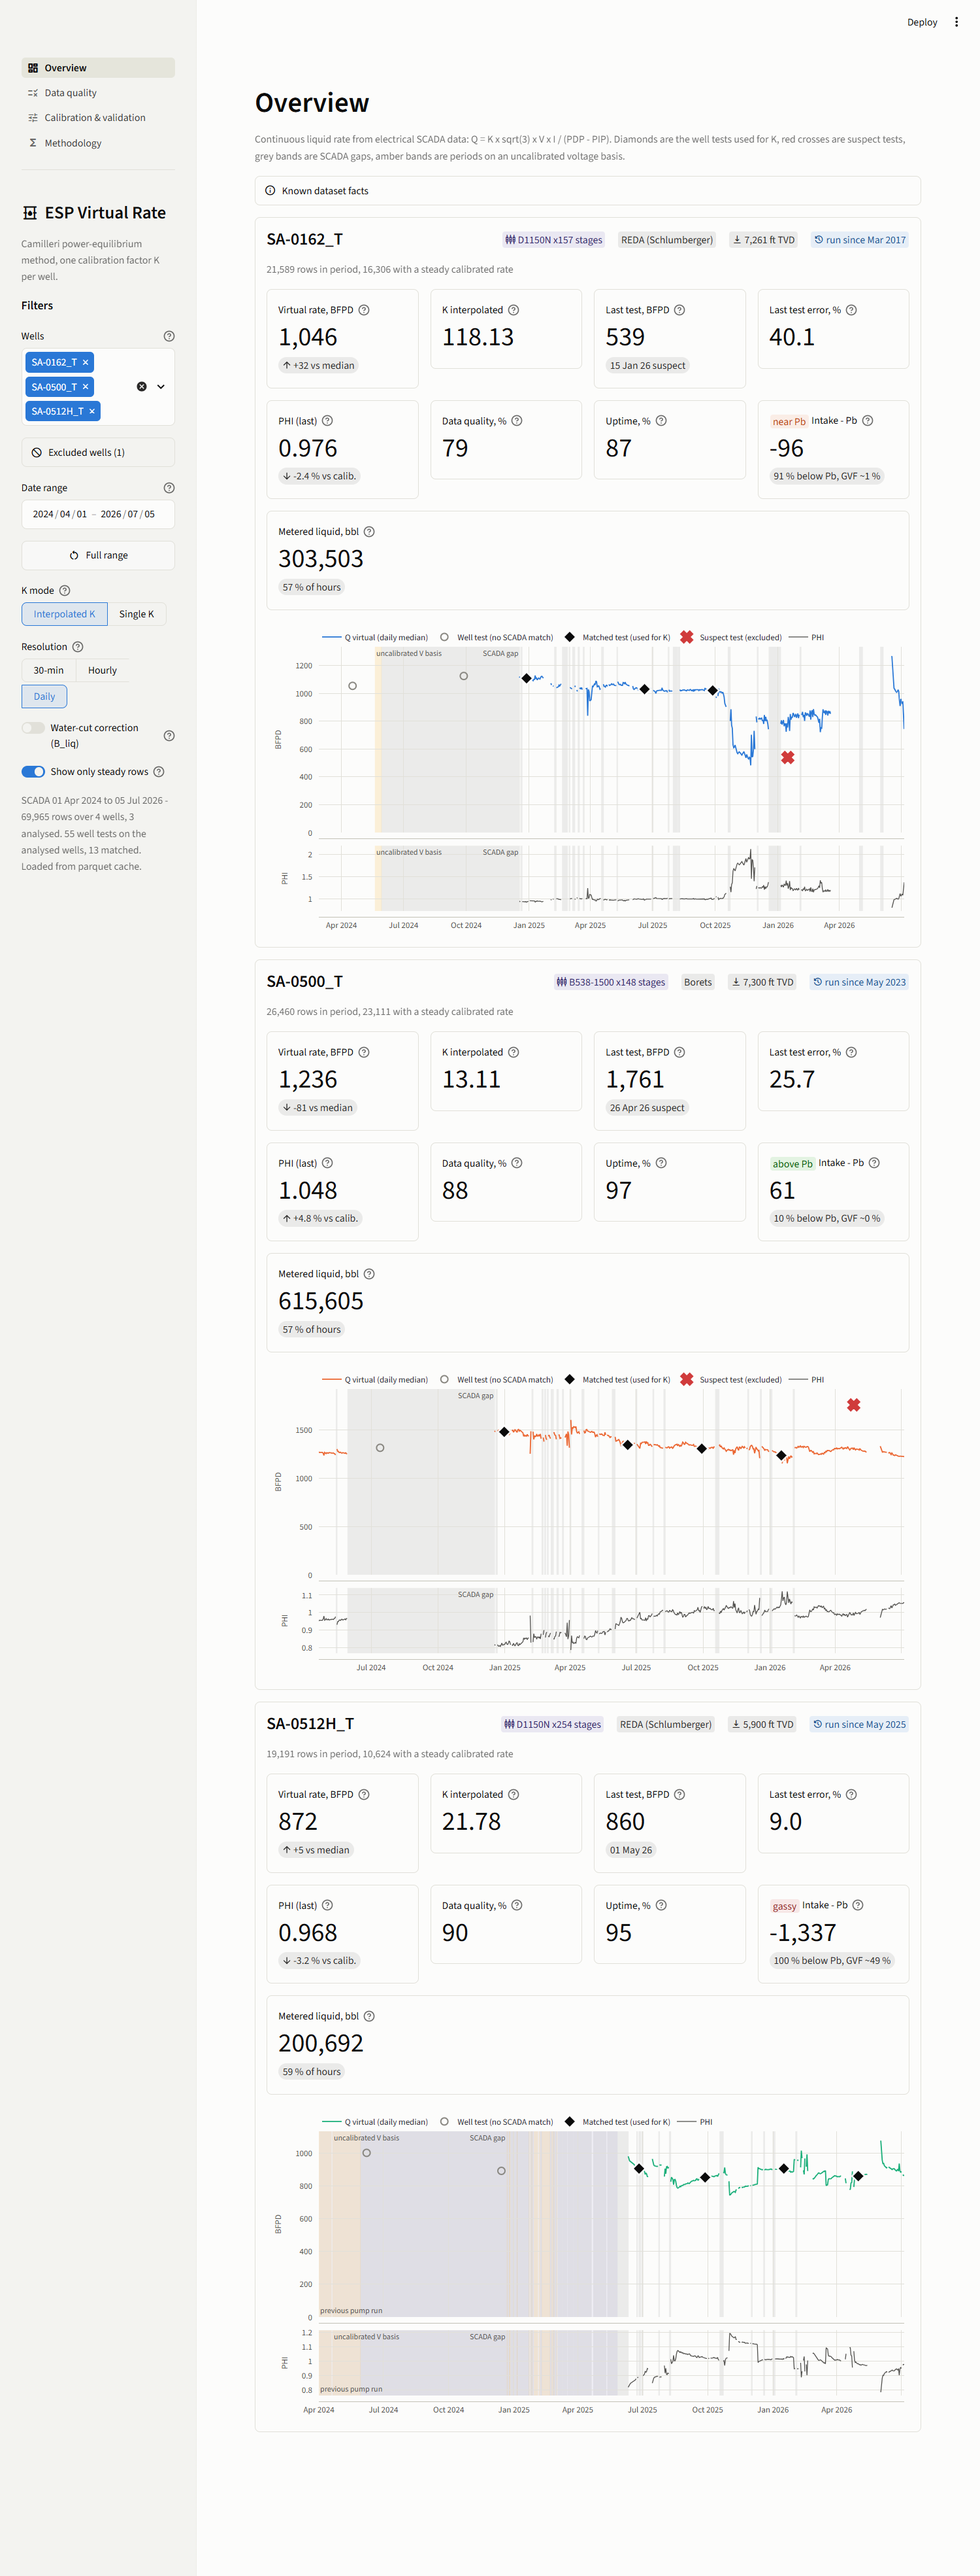
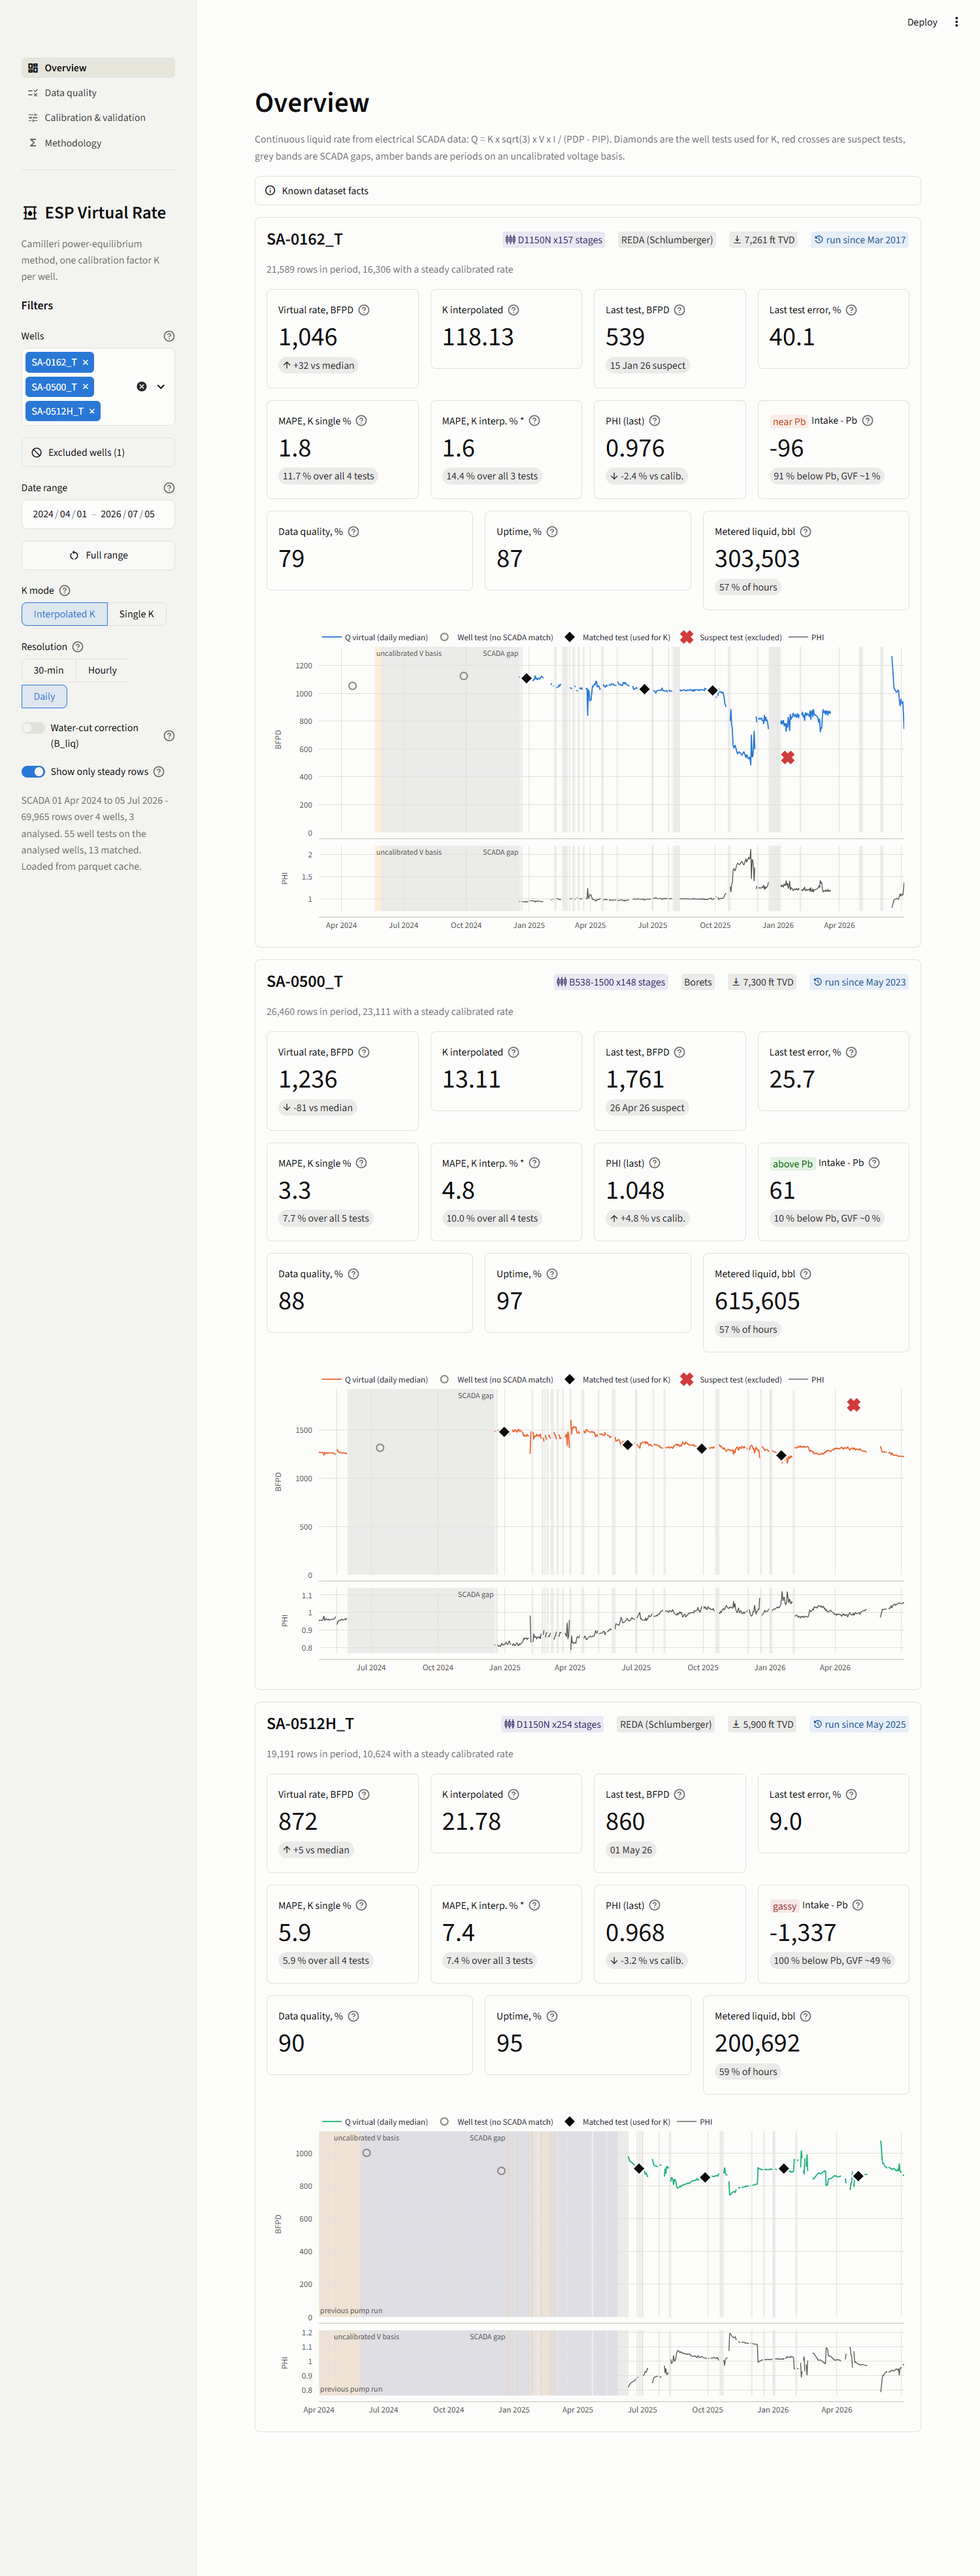
Overview: per-well MAPE tiles for both K modes
Each K mode gets the out-of-sample method that actually scores it: a single K is
leave-one-out (M1), an interpolated K is walk-forward (M2), because interpolating
across a test needs the test that follows it, which does not exist in real time.
The tile value excludes suspect tests, the line underneath covers all of them, and
an asterisk marks the mode the sidebar is using. With the water-cut correction on
the tiles switch to M6.

diff --git a/ui/components.py b/ui/components.py
@@ -83,8 +83,41 @@ def intake_tile(stats: dict, gas: pd.Series | None):
                       f"fraction is {C.GVF_CAVEAT} and is indicative, not quantitative."))
 
 
+# Each K mode has one honest out-of-sample validation method. A single K is scored leave-one-out
+# (M1). An interpolated K cannot be scored that way: interpolating across a test needs the test
+# that follows it, which does not exist in real time, so the walk-forward K of the previous test
+# (M2) is what an interpolated K actually gives you at prediction time.
+K_MODE_METHOD = {"single": "M1_LOO", "interp": "M2_WALK"}
+K_MODE_METHOD_WC = {"single": "M6_LOO", "interp": "M6_WALK"}
+K_MODE_TILE = {"single": "MAPE, K single %", "interp": "MAPE, K interp. %"}
+
+
+def mape_tile(mape_rows: pd.DataFrame | None, well: str, mode: str, wc_correction: bool, active: bool):
+    """Model error for one K mode: mean absolute % error at this well's matched tests."""
+    method = (K_MODE_METHOD_WC if wc_correction else K_MODE_METHOD)[mode]
+    label = K_MODE_TILE[mode] + (" *" if active else "")
+    row = None
+    if mape_rows is not None and (well, method) in mape_rows.index:
+        row = mape_rows.loc[(well, method)]
+    if row is None or not pd.notna(row["MAPE_excl_suspect"]):
+        st.metric(label, "n/a", border=True, help="Not enough matched tests on this well to score this K mode.")
+        return
+    how = ("leave-one-out: K from the well's other non-suspect tests" if mode == "single" else
+           "walk-forward: K from the most recent earlier non-suspect test, which is what an "
+           "interpolated K gives you before the next test exists")
+    st.metric(label, fmt_num(row["MAPE_excl_suspect"], 1),
+              f"{row['MAPE_all']:.1f} % over all {int(row['n_all'])} tests", delta_color="off", delta_arrow="off",
+              border=True,
+              help=(f"Mean absolute % error against this well's matched well tests, {how}"
+                    f"{' , with the B_liq water-cut correction' if wc_correction else ''}. "
+                    f"The value excludes suspect tests ({int(row['n_excl_suspect'])} tests, median "
+                    f"{row['MdAPE_excl_suspect']:.1f} %); the line underneath includes them. "
+                    "An asterisk marks the K mode the sidebar is using."))
+
+
 def kpi_tiles(stats: dict, cal_row: pd.Series | None, last: pd.Series | None, k_mode: str, run_label_now: str,
-              wc_correction: bool = False, gas: pd.Series | None = None):
+              wc_correction: bool = False, gas: pd.Series | None = None,
+              mape_rows: pd.DataFrame | None = None, well: str = ""):
     """KPI tiles for one well over the selected period."""
     med = stats["rate_median"]
     last_rate = stats["rate_last"]
@@ -92,7 +125,7 @@ def kpi_tiles(stats: dict, cal_row: pd.Series | None, last: pd.Series | None, k_
     k_label = ("K_dh interpolated" if k_mode == "interp" else "K_dh single") if wc_correction \
         else ("K interpolated" if k_mode == "interp" else "K single")
     k_value = stats["K_dh"] if wc_correction else stats["K"]
-    n = 10 if wc_correction else 9
+    n = 12 if wc_correction else 11
     # four tiles per row: any more and the labels ellipsize on a laptop screen
     c = []
     for start in range(0, n, 4):
@@ -123,24 +156,28 @@ def kpi_tiles(stats: dict, cal_row: pd.Series | None, last: pd.Series | None, k_
         else:
             st.metric("Last test error, %", "n/a", border=True)
     with c[4]:
+        mape_tile(mape_rows, well, "single", wc_correction, k_mode == "single")
+    with c[5]:
+        mape_tile(mape_rows, well, "interp", wc_correction, k_mode == "interp")
+    with c[6]:
         phi = stats["phi_last"]
         st.metric("PHI (last)", fmt_num(phi, 3), (f"{(phi - 1) * 100:+.1f} % vs calib." if pd.notna(phi) else None),
                   delta_color="off", border=True, help=PHI_HELP)
-    with c[5]:
-        st.metric("Data quality, %", fmt_num(stats["quality_pct"], 0), border=True,
-                  help="Usable rows / all rows in the period (no missing V/I/PIP/PDP, pump on, dP > 300 psi, pressures and Hz in range).")
-    with c[6]:
-        st.metric("Uptime, %", fmt_num(stats["uptime_pct"], 0), border=True,
-                  help="Rows not flagged pump_off (V >= 100 V, I >= 5 A, Hz != 0) / all rows in the period.")
     with c[7]:
         intake_tile(stats, gas)
     with c[8]:
+        st.metric("Data quality, %", fmt_num(stats["quality_pct"], 0), border=True,
+                  help="Usable rows / all rows in the period (no missing V/I/PIP/PDP, pump on, dP > 300 psi, pressures and Hz in range).")
+    with c[9]:
+        st.metric("Uptime, %", fmt_num(stats["uptime_pct"], 0), border=True,
+                  help="Rows not flagged pump_off (V >= 100 V, I >= 5 A, Hz != 0) / all rows in the period.")
+    with c[10]:
         st.metric("Metered liquid, bbl", fmt_num(stats["cum_bbl"], 0), f"{stats['rate_coverage_pct']:.0f} % of hours",
                   delta_color="off", delta_arrow="off", border=True,
                   help="Sum of hourly median virtual rate x 1 h over hours that have a valid steady rate. Hours without a rate "
                        "contribute nothing, so this is metered liquid, not calendar production.")
     if wc_correction:
-        with c[9]:
+        with c[11]:
             eff = stats.get("wc_effect_pct")
             st.metric("WC correction now, %", (f"{eff:+.1f}" if pd.notna(eff) else "n/a"),
                       f"B_liq {stats['med_B_LIQ']:.3f} at WC {stats['med_WC_FRAC'] * 100:.0f} %"

diff --git a/app_pages/overview.py b/app_pages/overview.py
@@ -52,7 +52,8 @@ for well in f["wells"]:
         gas = D.gas_by_well()
         kpi_tiles(stats, cal.loc[well] if well in cal.index else None,
                   last_tests.loc[well] if well in last_tests.index else None, f["k_mode"], run_now,
-                  f["wc_correction"], gas.loc[well] if well in gas.index else None)
+                  f["wc_correction"], gas.loc[well] if well in gas.index else None,
+                  D.mape_by_well(), well)
         series = D.rate_series(well, f["start"], f["end"], f["freq"], f["steady_only"])
         tests = D.tests_in_range(well, f["start"], f["end"])
         st.plotly_chart(rate_chart(well, series, tests, f["freq"], f["steady_only"], f["k_mode"], shade, zoom=zoom),

diff --git a/ui/data.py b/ui/data.py
@@ -65,6 +65,12 @@ def period_stats(well: str, start: str, end: str, k_mode: str, steady_only: bool
 
 
 @st.cache_resource
+def mape_by_well() -> pd.DataFrame:
+    """Per-well MAPE/MdAPE indexed by (well, method)."""
+    return get_results().mape.set_index(["scope", "method"])
+
+
+@st.cache_resource
 def gas_by_well() -> pd.DataFrame:
     """Per-well intake-vs-bubble-point summary, indexed by well."""
     return get_results().gas.set_index("WELL_NAME")
